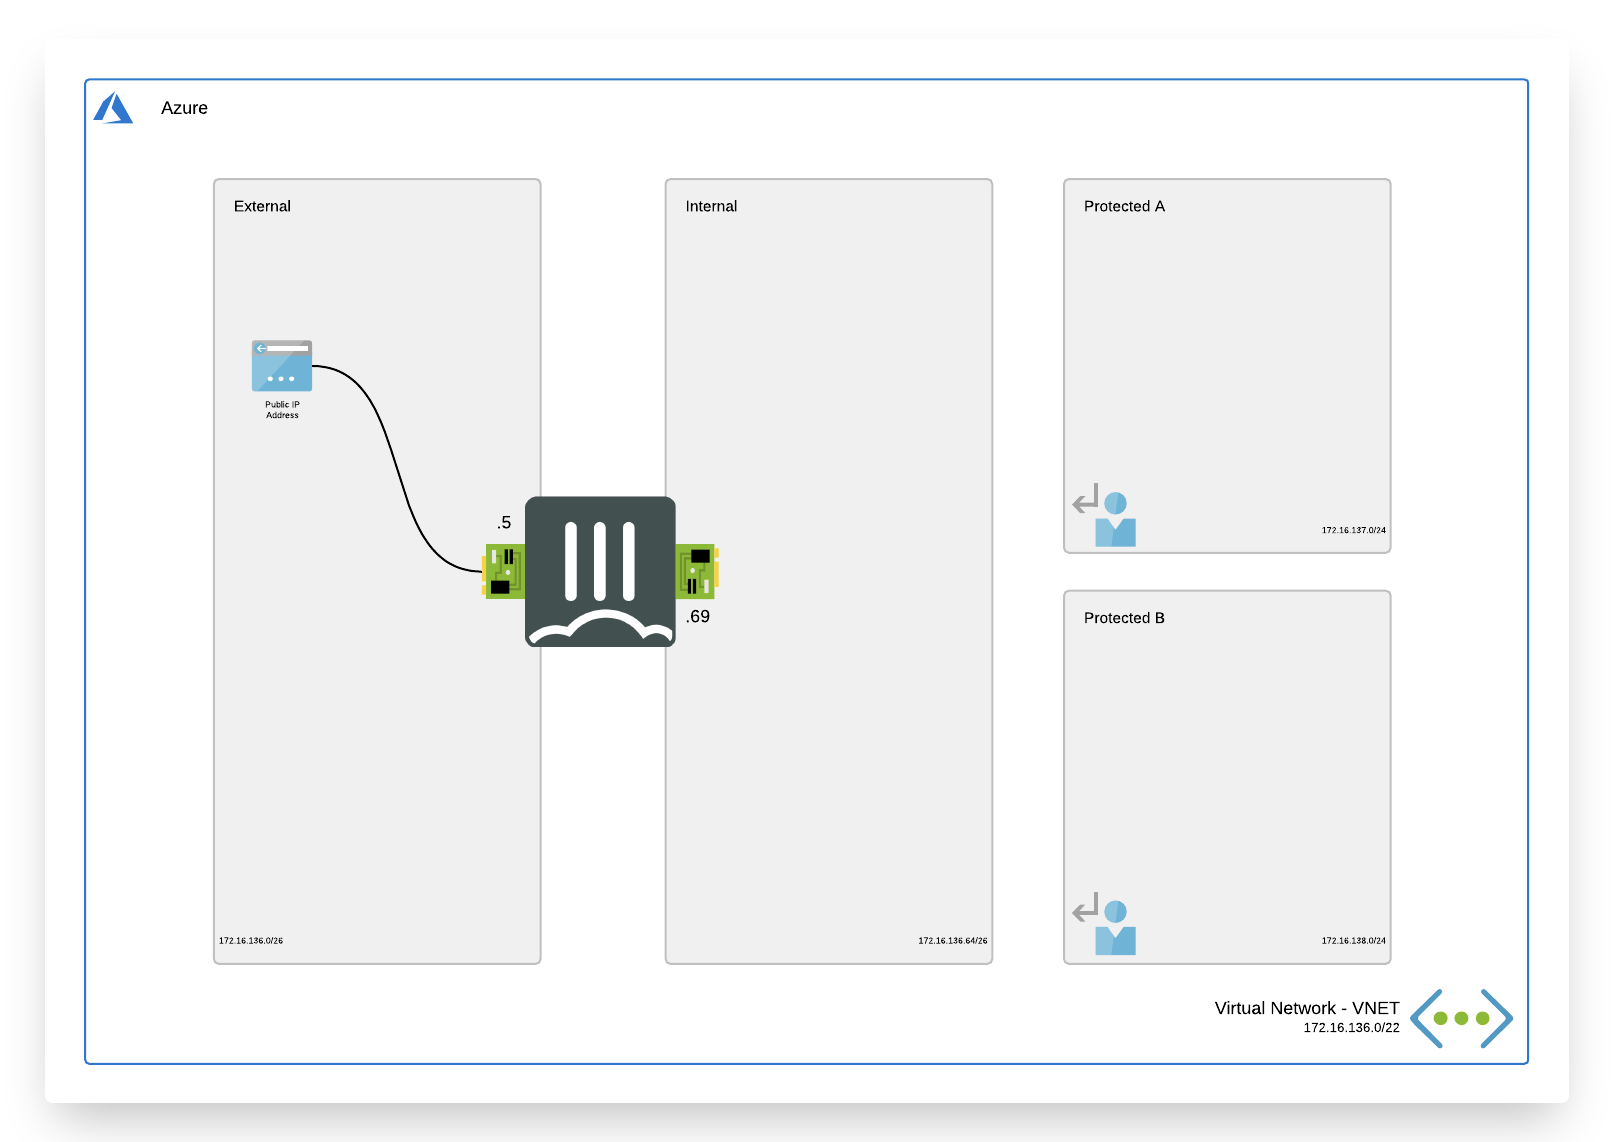
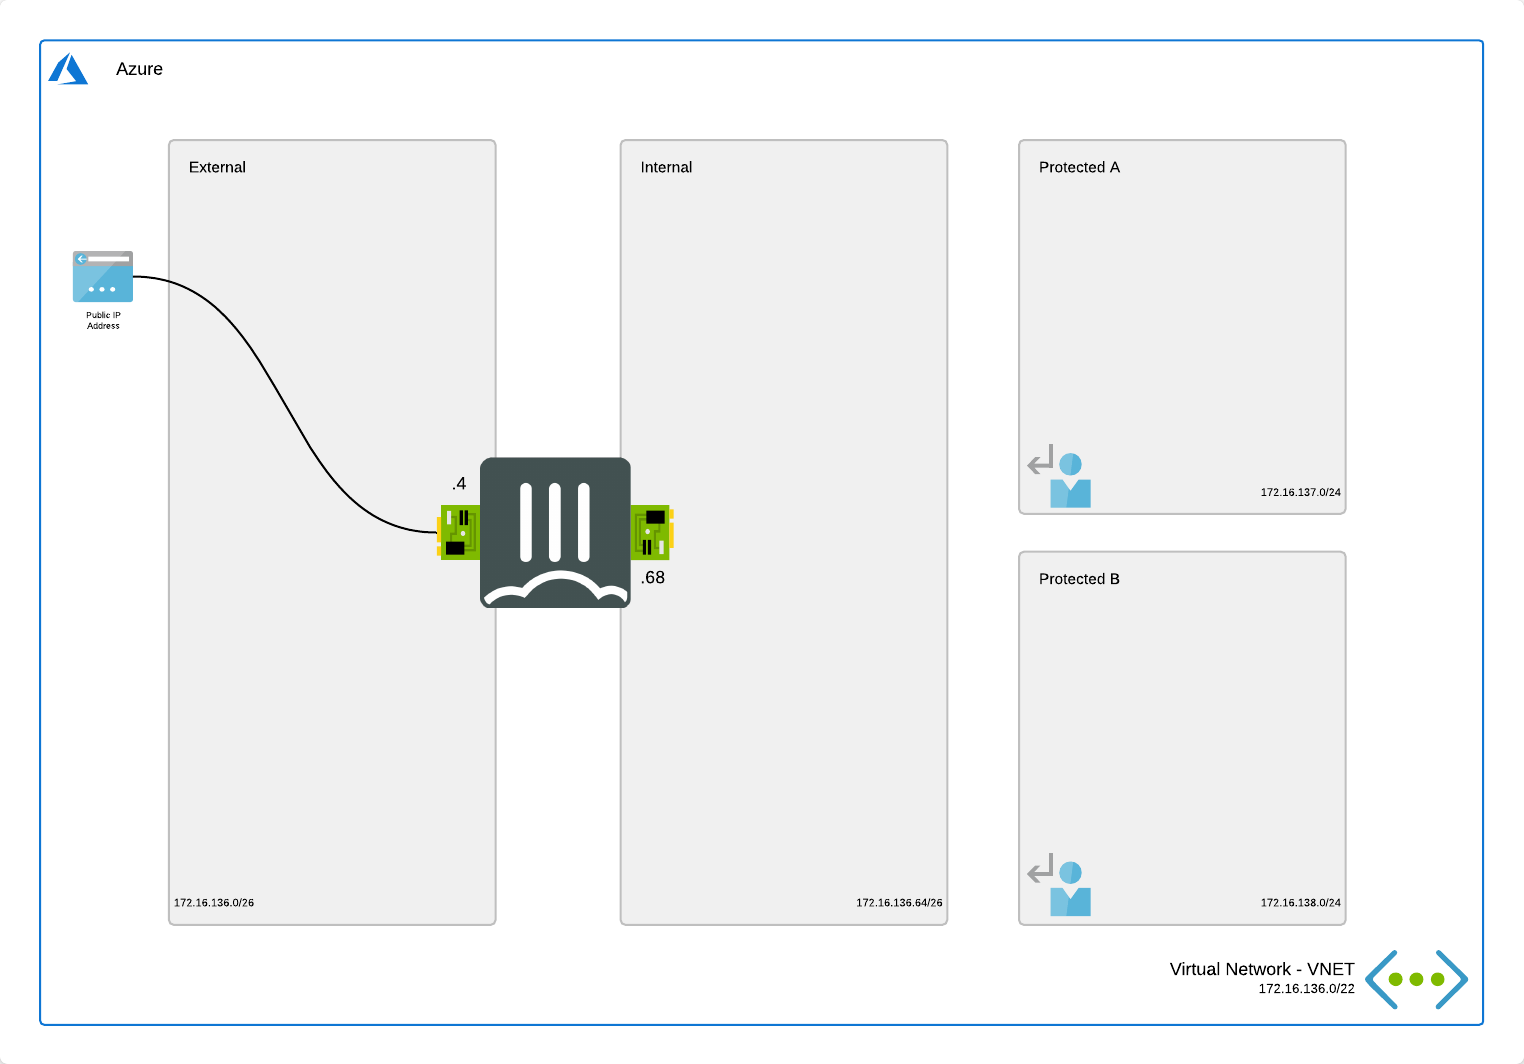
Spring 2021 updates - updated images

diff --git a/FortiGate/README.md b/FortiGate/README.md
@@ -41,7 +41,7 @@ More information can be found [here](A-Single-VM/)
 More information can be found [here](Active-Passive-ELB-ILB/)
 
 <p align="center">
-  <a href="Active-Passive-ELB-ILB/"><img width="500px" src="Active-Passive-ELB-ILB/images/fgt-ha.png" alt="FortiGate building blocks"></a>
+  <a href="Active-Passive-ELB-ILB/"><img width="500px" src="Active-Passive-ELB-ILB/images/fgt-ap.png" alt="FortiGate building blocks"></a>
 </p
 
 - [__**Active/Passive with Fabric Connector Failover**__](Active-Passive-SDN/): This design will deploy 2 FortiGate VMs in Active/Passive connected using unicast FGCP HA protocol. This protocol will synchronize the configuration. On failover the passive FortiGate takes control and will issue api calls to Microsoft Azure to shift the Public IP and update the internal User Defined Routing (UDR) to itself. Shifting the public IP and gateway IPs of the routes will take some time to complete on the Microsoft Azure platform. Microsoft provides a general architecture [here](https://docs.microsoft.com/en-us/azure/architecture/reference-architectures/dmz/nva-ha#pip-udr-nvas-without-snat), in the FortiGate case the API calls logic is built in instead of requiring additional outside logic like Azure Functions or ZooKeeper nodes. Due to the faster failover times and easier management the Active/Passive with the Azure Load Balancer is the preferred building block compared to this one.
@@ -49,7 +49,7 @@ More information can be found [here](Active-Passive-ELB-ILB/)
 More information can be found [here](Active-Passive-SDN/)
 
 <p align="center">
-  <a href="Active-Passive-SDN/"><img width="500px" src="Active-Passive-SDN/images/fgt-ha.png" alt="FortiGate building blocks"></a>
+  <a href="Active-Passive-SDN/"><img width="500px" src="Active-Passive-SDN/images/fgt-ap-sdn.png" alt="FortiGate building blocks"></a>
 </p
 
 - [__**Active/Active with external and internal Azure Load Balancer**__](Active-Active-ELB-ILB): This design will deploy 2 FortiGate VMs in Active/Active as 2 independent systems. The failover of the traffic in this setup is handled by the Microsoft Azure Load Balancer using a health probe towards the FortiGate VMs. The public IPs are configured on the Microsoft Azure Load Balancer and provide ingress and egress flows with inspection from the FortiGate. To sync the configuration of this setup a FortiManager or local replication can be used. Microsoft provides some guidance on this architecture [here](https://docs.microsoft.com/en-us/azure/load-balancer/load-balancer-ha-ports-overview).

diff --git a/FortiGate/AvailabilityZones/Active-Passive-SDN-AZ/README.md b/FortiGate/AvailabilityZones/Active-Passive-SDN-AZ/README.md
@@ -20,7 +20,7 @@ VMs running in Microsoft Azure using Availability Zones have a better SLA provid
 
 A cluster of FortiGate VMs will have a cross region/parallel SLA of 99,999999%. More information about the uptime of the Azure datacenter can be found on [this blog post](https://kvaes.wordpress.com/2020/02/16/is-azure-a-tier-3-datacenter-and-what-about-service-levels-in-a-broader-sense/). FortiGate A will be deployed in Zone 1. FortiGate B will deployed in Zone 2. The template can off course be changed to use other zones.
 
-![active/passive design](images/fgt-ha.png)
+![active/passive design](images/fgt-ap-sdn.png)
 
 This ARM template can also be used to extend or customized based on your requirements. Additional subnets besides the one's mentioned above are not automatically generated. By adapting the ARM templates you can add additional subnets which preferably require their own routing tables.
 

diff --git a/FortiGate/AvailabilityZones/Terraform/Active-Passive-ELB-ILB-AZ/README.md b/FortiGate/AvailabilityZones/Terraform/Active-Passive-ELB-ILB-AZ/README.md
@@ -21,7 +21,7 @@ VMs running in Microsoft Azure using Availability Zones have a better SLA provid
 
 A cluster of FortiGate VMs will have a cross region/parallel SLA of 99,999999%. More information about the uptime of the Azure datacenter can be found on [this blog post](https://kvaes.wordpress.com/2020/02/16/is-azure-a-tier-3-datacenter-and-what-about-service-levels-in-a-broader-sense/). FortiGate A will be deployed in Zone 1. FortiGate B will deployed in Zone 2. The template can off course be changed to use other zones.
 
-![active/active design](images/fgt-ha.png)
+![active/active design](images/fgt-ap.png)
 
 This Terraform template can also be used to extend or customized based on your requirements. Additional subnets besides the one's mentioned above are not automatically generated. By adapting the ARM templates you can add additional subnets which preferably require their own routing tables.
 

diff --git a/FortiGate/AvailabilityZones/Active-Passive-ELB-ILB-AZ/README.md b/FortiGate/AvailabilityZones/Active-Passive-ELB-ILB-AZ/README.md
@@ -20,7 +20,7 @@ VMs running in Microsoft Azure using Availability Zones have a better SLA provid
 
 A cluster of FortiGate VMs will have a cross region/parallel SLA of 99,999999%. More information about the uptime of the Azure datacenter can be found on [this blog post](https://kvaes.wordpress.com/2020/02/16/is-azure-a-tier-3-datacenter-and-what-about-service-levels-in-a-broader-sense/). FortiGate A will be deployed in Zone 1. FortiGate B will deployed in Zone 2. The template can off course be changed to use other zones.
 
-![active/active design](images/fgt-ha.png)
+![active/active design](images/fgt-ap.png)
 
 This ARM template can also be used to extend or customized based on your requirements. Additional subnets besides the one's mentioned above are not automatically generated. By adapting the ARM templates you can add additional subnets which preferably require their own routing tables.
 

diff --git a/FortiGate/Active-Passive-SDN/README.md b/FortiGate/Active-Passive-SDN/README.md
@@ -17,7 +17,7 @@ This Azure ARM template will automatically deploy a full working environment con
 	- 3 public IPs. The first public IP is for cluster access to/through the active FortiGate.  The other two PIPs are for Management access
   - User Defined Routes (UDR) for the protected subnets
 
-![active/passive design](images/fgt-ha.png)
+![active/passive design](images/fgt-ap-sdn.png)
 
 This ARM template can also be used to extend or customized based on your requirements. Additional subnets besides the one's mentioned above are not automatically generated. By adapting the ARM templates you can add additional subnets which preferably require their own routing tables.
 

diff --git a/FortiGate/Active-Passive-ELB-ILB/README.md b/FortiGate/Active-Passive-ELB-ILB/README.md
@@ -19,7 +19,7 @@ This Azure ARM template will automatically deploy a full working environment con
   - 3 public IPs. The first public IP is for cluster access to/through the active FortiGate.  The other two PIPs are for Management access
   - User Defined Routes (UDR) for the protected subnets
 
-![active/passive design](images/fgt-ha.png)
+![active/passive design](images/fgt-ap.png)
 
 This ARM template can also be used to extend or customized based on your requirements. Additional subnets besides the one's mentioned above are not automatically generated. By adapting the ARM templates you can add additional subnets which preferably require their own routing tables.
 
